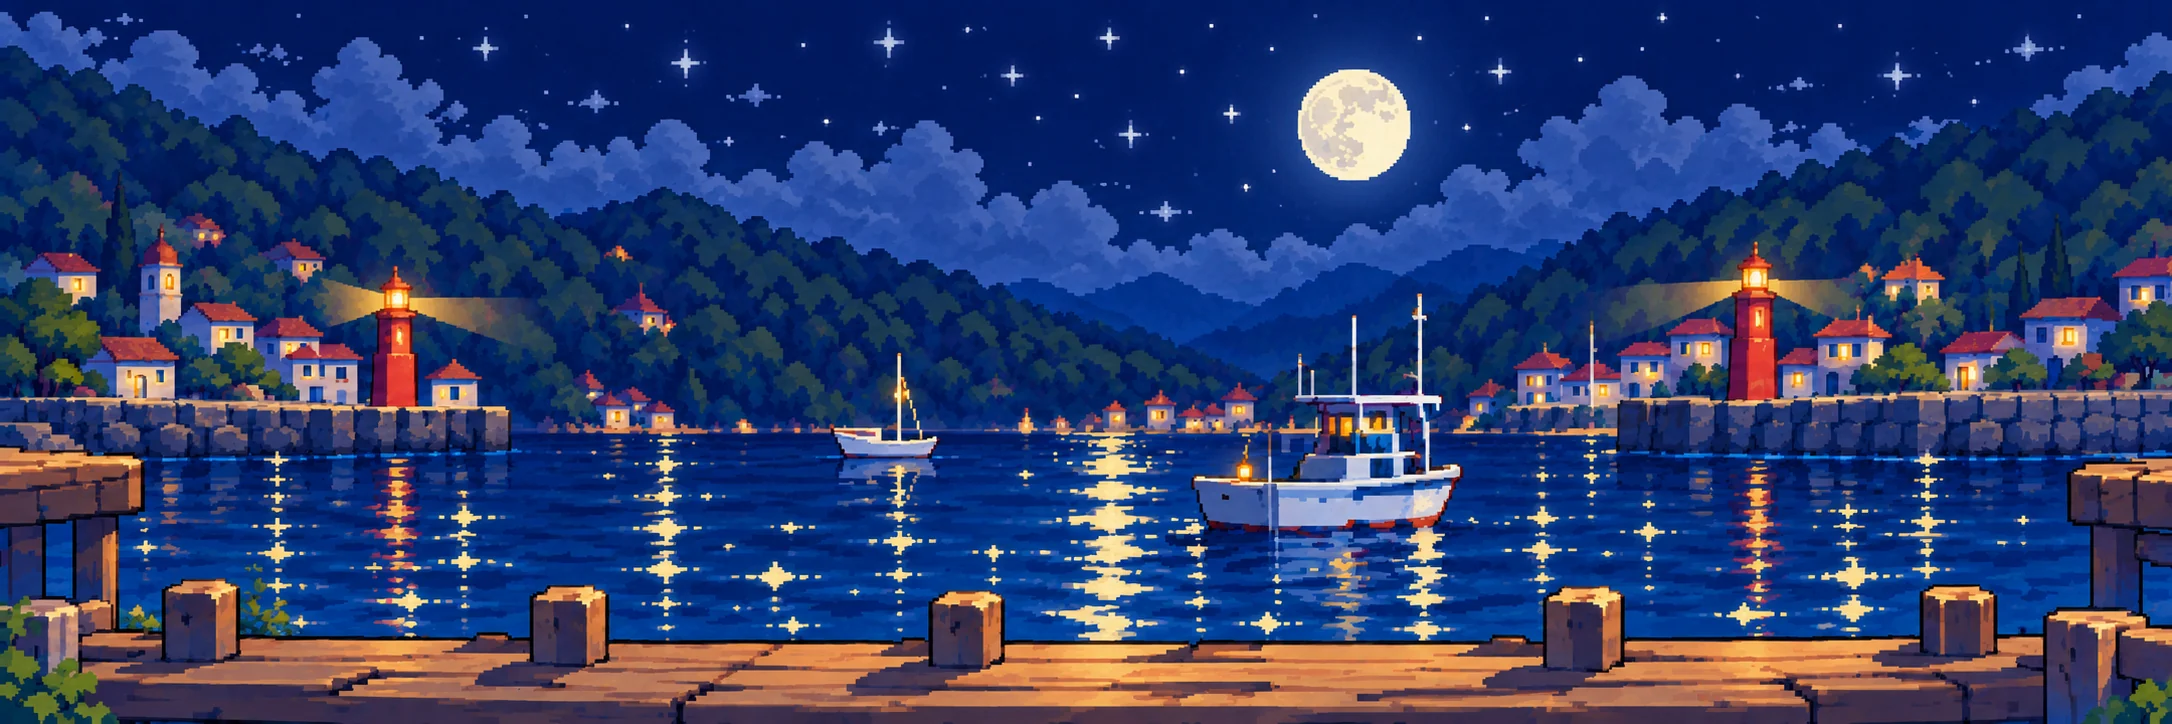
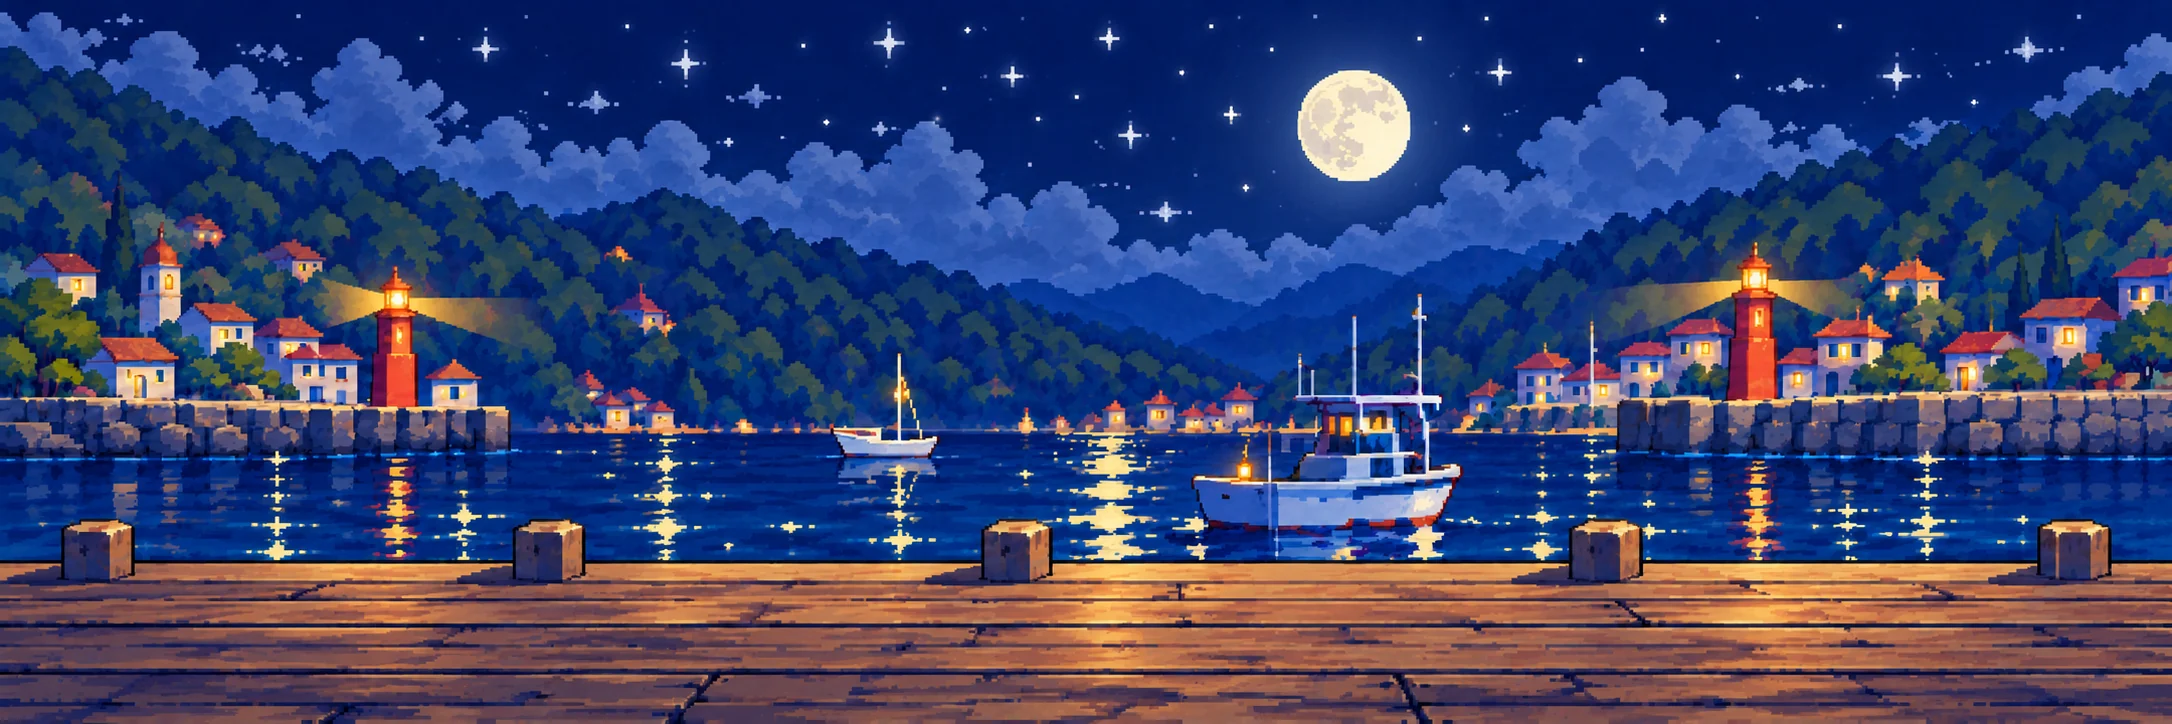
Sit the mascot on a solid deck
The harbor's dock was a thin strip with water under the left pier, and
the phone review card covered most of it, so she floated over water or
posts. Both harbor cuts (and their night versions) now have a solid
boardwalk across the bottom fifth, and she is placed from the art's
measured deck line: partway into the visible deck, above whatever rides
over its front edge (the review card, the quiz dialogue box).

HarborScene replaces HarborBackdrop and places the mascot itself; the
quiz stage uses the same deck math.

diff --git a/apps/web/src/components/Harbor.tsx b/apps/web/src/components/Harbor.tsx
@@ -1,19 +1,25 @@
-import classicDay from '@/assets/background.webp';
-import classicNight from '@/assets/background-night.webp';
+import { useRef } from 'react';
+import classicDay from '@/assets/harbor.webp';
+import classicNight from '@/assets/harbor-night.webp';
 import wideDay from '@/assets/harbor-wide.webp';
 import wideNight from '@/assets/harbor-wide-night.webp';
+import { useElementSize } from '@/hooks/useElementSize';
 import { cn } from '@/lib/cn';
+import { Mascot, type Pose, spriteFoot } from './Mascot';
 
-/** The harbor in two cuts: the classic 10:7 scene and a 3:1 panorama with the dock running the whole bottom edge. */
+/**
+ * The harbor in two cuts, each with a solid boardwalk across its bottom: the classic 3:2 scene and a 3:1 panorama.
+ * `deckTop` is where the deck meets the water, as a fraction of the art's height (the same by day and by night).
+ */
 const art = {
-  classic: { day: classicDay, night: classicNight, aspect: 1498 / 1050 },
-  wide: { day: wideDay, night: wideNight, aspect: 2172 / 724 },
+  classic: { day: classicDay, night: classicNight, aspect: 1536 / 1024, deckTop: 0.785 },
+  wide: { day: wideDay, night: wideNight, aspect: 2172 / 724, deckTop: 0.775 },
 } as const;
+
+export type Cut = keyof typeof art;
 
 /** Moonlit harbor from 7pm to 6am, local time. Read at render, so it flips the next time a scene re-renders. */
 export const isNight = (date = new Date()) => date.getHours() >= 19 || date.getHours() < 6;
-
-export type Cut = keyof typeof art;
 
 /** One cut of the harbor at the current time of day, with its aspect ratio (width over height). */
 export function harborArt(cut: Cut) {
@@ -24,17 +30,51 @@ export function harborArt(cut: Cut) {
 export const cutFor = (width: number, height: number): Cut => (height > 0 && width / height > 2 ? 'wide' : 'classic');
 
 /**
- * The harbor filling its box, anchored to the bottom so the dock always shows under the mascot. For fixed-size boxes
- * (heroes, the login backdrop); the quiz stage sizes and zooms the art itself.
+ * Where her chair legs land, in px above the bottom of bottom-anchored art drawn `artWidth` wide: a little behind
+ * the front of the deck, and above the bottom `covered` px that something rides over (a card, a dialogue box).
  */
-export function HarborBackdrop({ width, height, className }: { width: number; height: number; className?: string }) {
+export function deckFeet(cut: Cut, artWidth: number, covered = 0) {
+  const band = (artWidth / art[cut].aspect) * (1 - art[cut].deckTop);
+  return covered + Math.max(0, band - covered) * 0.45;
+}
+
+/**
+ * The harbor filling its box (cover, anchored to the bottom) with the mascot sitting on the deck, for fixed scenes
+ * like the phone Home hero and the login. `covered` is how much of the bottom edge something overlaps; `size` gets
+ * the box height and returns the mascot's size. The quiz stage zooms and places the art itself.
+ */
+export function HarborScene({
+  className,
+  covered = 0,
+  left,
+  size,
+  pose,
+}: {
+  className?: string;
+  covered?: number;
+  left: number | string;
+  size: (height: number) => number;
+  pose?: Pose;
+}) {
+  const box = useRef<HTMLDivElement>(null);
+  const { width, height } = useElementSize(box);
+  const cut = cutFor(width, height);
+  const mascot = Math.round(size(height));
+  const feet = deckFeet(cut, Math.max(width, height * art[cut].aspect), covered);
   return (
-    <img
-      src={harborArt(cutFor(width, height)).src}
-      alt=""
-      fetchPriority="high"
-      draggable={false}
-      className={cn('h-full w-full object-cover object-bottom', className)}
-    />
+    <div ref={box} className={cn('relative overflow-hidden', className)}>
+      <img
+        src={harborArt(cut).src}
+        alt=""
+        fetchPriority="high"
+        draggable={false}
+        className="h-full w-full object-cover object-bottom"
+      />
+      {height > 0 && (
+        <div className="absolute" style={{ left, bottom: feet - mascot * spriteFoot }}>
+          <Mascot size={mascot} pose={pose} />
+        </div>
+      )}
+    </div>
   );
 }

diff --git a/apps/web/src/routes/login.tsx b/apps/web/src/routes/login.tsx
@@ -3,13 +3,11 @@ import { sessionStore } from '@kashi-koi/core/navidrome/session';
 import { loginError } from '@kashi-koi/core/navidrome/subsonic';
 import { colors } from '@kashi-koi/design/tokens';
 import { createFileRoute, redirect } from '@tanstack/react-router';
-import { type FormEvent, type ReactNode, useRef, useState } from 'react';
+import { type FormEvent, type ReactNode, useState } from 'react';
 import logo from '@/assets/kashikoi-logo.webp';
-import { HarborBackdrop } from '@/components/Harbor';
-import { Mascot } from '@/components/Mascot';
+import { HarborScene } from '@/components/Harbor';
 import { PixelFrame } from '@/components/PixelFrame';
 import { Button, Label } from '@/components/ui';
-import { useElementSize } from '@/hooks/useElementSize';
 import { useIsDesktop } from '@/hooks/useIsDesktop';
 import { mixedContentError } from '@/lib/serverUrl';
 
@@ -28,34 +26,18 @@ const fields = [
 
 /** The phone's Home hero, so the first screen already looks like the app. */
 function Hero() {
-  const hero = useRef<HTMLDivElement>(null);
-  const { width, height } = useElementSize(hero);
-  return (
-    <div
-      ref={hero}
-      className="relative shrink-0 overflow-hidden"
-      style={{ height: 'calc(230px + env(safe-area-inset-top))' }}
-    >
-      <HarborBackdrop width={width} height={height} />
-      <div className="absolute bottom-1.5 left-5">
-        <Mascot size={200} />
-      </div>
-    </div>
-  );
+  return <HarborScene className="h-[calc(230px+env(safe-area-inset-top))] shrink-0" left={20} size={() => 200} />;
 }
 
-/** Desktop: the harbor fills the window, she fishes from the dock and the form floats in an RPG dialogue box. */
+/** Desktop: the harbor fills the window, she fishes from the deck and the form floats in an RPG dialogue box. */
 function DesktopScene({ children }: { children: ReactNode }) {
-  const scene = useRef<HTMLDivElement>(null);
-  const { width, height } = useElementSize(scene);
   return (
     <div className="relative h-dvh overflow-y-auto bg-bg">
-      <div ref={scene} aria-hidden className="pointer-events-none fixed inset-0">
-        <HarborBackdrop width={width} height={height} className="pixelated" />
-        <div className="absolute left-[5vw]" style={{ bottom: height * 0.015 }}>
-          <Mascot size={Math.round(Math.min(340, height * 0.4))} />
-        </div>
-      </div>
+      <HarborScene
+        className="pointer-events-none fixed! inset-0"
+        left="5vw"
+        size={(height) => Math.min(340, height * 0.4)}
+      />
       <div className="relative flex min-h-full items-start justify-center px-6 pt-[9vh] pb-6">
         <PixelFrame fill={colors.night} border={null} className="w-full max-w-[440px]" contentStyle={{ padding: 3 }}>
           <PixelFrame fill={colors.night} border={colors.cream}>

diff --git a/apps/web/src/routes/_app/index.tsx b/apps/web/src/routes/_app/index.tsx
@@ -1,16 +1,13 @@
 import { colors } from '@kashi-koi/design/tokens';
 import { createFileRoute, Link, Navigate } from '@tanstack/react-router';
-import { useRef } from 'react';
-import { HarborBackdrop } from '@/components/Harbor';
+import { HarborScene } from '@/components/Harbor';
 import { TabHeader } from '@/components/Header';
 import { Icon } from '@/components/Icon';
-import { Mascot } from '@/components/Mascot';
 import { PixelFrame } from '@/components/PixelFrame';
 import { RecentlyPlayed } from '@/components/RecentlyPlayed';
 import { Screen } from '@/components/Screen';
 import { useDueCount } from '@/components/TabBar';
 import { Label } from '@/components/ui';
-import { useElementSize } from '@/hooks/useElementSize';
 import { useIsDesktop } from '@/hooks/useIsDesktop';
 
 export const Route = createFileRoute('/_app/')({ component: HomeScreen });
@@ -22,17 +19,17 @@ export const Route = createFileRoute('/_app/')({ component: HomeScreen });
  */
 function HomeScreen() {
   const count = useDueCount();
-  const hero = useRef<HTMLDivElement>(null);
-  const { width, height } = useElementSize(hero);
   if (useIsDesktop()) return <Navigate to="/library" replace />;
   return (
     <Screen header={<TabHeader />}>
-      <div ref={hero} className="relative h-[250px] overflow-hidden">
-        <HarborBackdrop width={width} height={height} />
-        <div className="absolute bottom-2 left-[26px]">
-          <Mascot size={240} pose={count === 0 ? 'catch' : 'play'} />
-        </div>
-      </div>
+      {/* The review card rides 26px over the hero's bottom edge, so she sits on the deck above it. */}
+      <HarborScene
+        className="h-[250px]"
+        covered={26}
+        left={26}
+        size={() => 240}
+        pose={count === 0 ? 'catch' : 'play'}
+      />
       <div className="relative -mt-[26px] flex flex-col gap-[14px] px-4 pb-5">
         <Link
           to="/review"

diff --git a/apps/web/src/components/QuizLayout.tsx b/apps/web/src/components/QuizLayout.tsx
@@ -8,8 +8,8 @@ import { Answers, GapSentence } from './Answers';
 import { FogStrip, useSongFog } from './Fog';
 import { Icon } from './Icon';
 import { SentenceLines } from './LineCard';
-import { harborArt } from './Harbor';
-import { Mascot, type Pose } from './Mascot';
+import { deckFeet, harborArt } from './Harbor';
+import { Mascot, type Pose, spriteFoot } from './Mascot';
 import { PixelFrame } from './PixelFrame';
 import { SongIntro } from './SongIntro';
 import { Button, Label, Tag } from './ui';
@@ -45,13 +45,16 @@ export function Stage({
 }) {
   const box = useRef<HTMLDivElement>(null);
   const { width, height } = useElementSize(box);
-  const harbor = harborArt(strip ? 'wide' : 'classic');
-  const dock = strip ? 0 : overlap;
+  const cut = strip ? 'wide' : 'classic';
+  const harbor = harborArt(cut);
   // Zoomed past cover so the art's pixels read at phone size.
   const artWidth = Math.max(width * 1.6, height * harbor.aspect);
-  // The strip leaves her some sky; the quiz stage lets her fill its height.
-  const size = Math.max(0, Math.min(260, width * 0.62, strip ? height * 0.86 : height - 4));
-  const bottom = dock - size * 0.06 + (strip ? 6 : 0);
+  // Her chair legs land on the deck, above the dialogue box riding over its front edge.
+  const feet = deckFeet(cut, artWidth, strip ? 0 : overlap);
+  // Her hat sits about 0.7 of her size above her chair legs, so that much has to fit under the top edge. The strip
+  // leaves her some sky.
+  const size = Math.max(0, Math.min(260, width * 0.62, (height - 6 - feet) / 0.7, strip ? height * 0.8 : Infinity));
+  const bottom = feet - size * spriteFoot;
   const note = {
     position: 'absolute',
     color: colors.coral,

diff --git a/apps/web/src/components/Mascot.tsx b/apps/web/src/components/Mascot.tsx
@@ -10,6 +10,9 @@ const strips = { bobbing, headbang };
 /** Still poses, registered on the sprite frame so swapping one in doesn't move her chair. */
 const poses = { doze, catch: catchPose };
 
+/** The transparent strip under her chair legs, as a fraction of her size: frames end the legs at 420 of 464px. */
+export const spriteFoot = 0.09;
+
 /** `play` bobs (or headbangs on a combo of three); `doze` naps while nothing plays; `catch` holds up a koi. */
 export type Pose = 'play' | keyof typeof poses;
 
